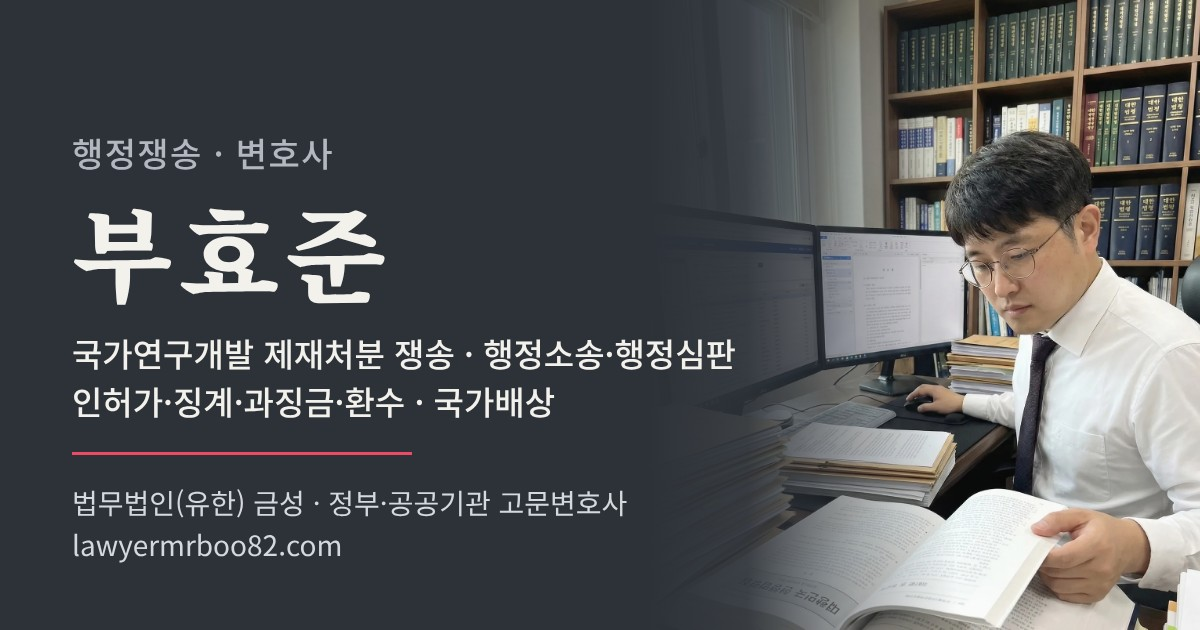
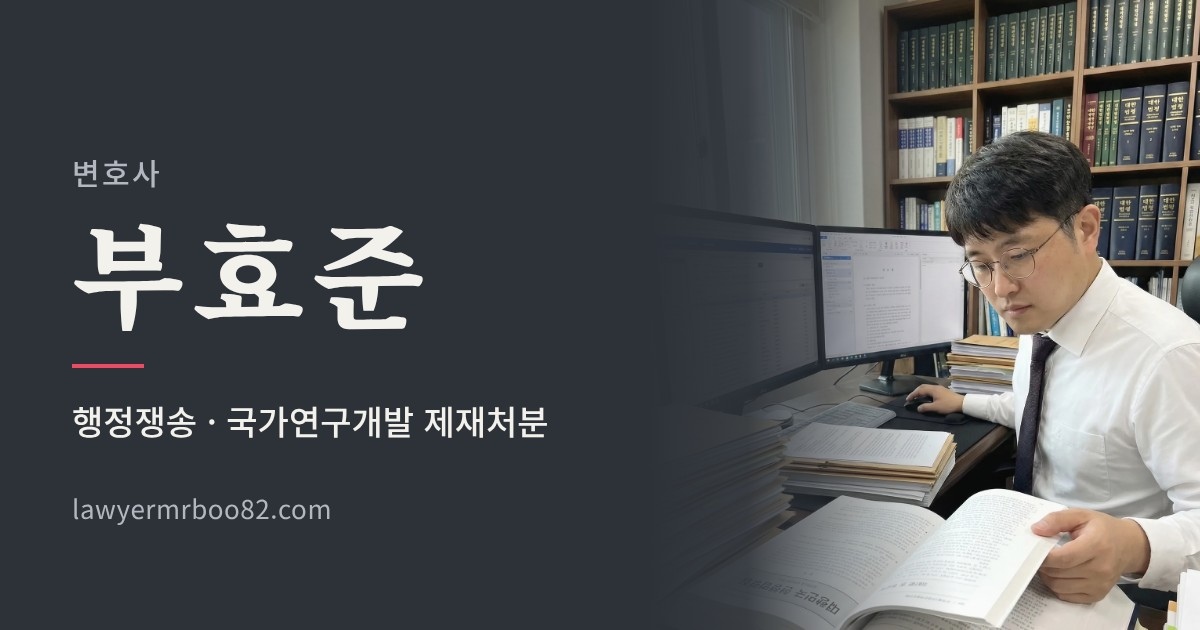
링크 공유 이미지를 간소화(A형): 변호사 · 부효준 · 분야 한 줄 · 주소만
- work/og_image.html: 분야 두 줄·소속·고문 문구를 빼고 '변호사 / 부효준 / 짧은 크림슨 줄 / 행정쟁송 · 국가연구개발 제재처분 / lawyermrboo82.com'으로(첫 화면 이름 줄과 같은 구성); 사진 판은 그대로
- og-image.jpg 재생성(1200×630, 101KB), 이미지 주소 ?v=3 → ?v=4

Claude-Session: https://claude.ai/code/session_01THUocaPHvPWUxxY9KQRVQu

Changed region(s): [[0.0617, 0.3317, 0.6167, 0.7238], [0.0617, 0.7841, 0.5242, 0.9048], [0.0617, 0.2111, 0.2775, 0.3016]]

diff --git a/work/og_image.html b/work/og_image.html
@@ -3,22 +3,22 @@
 <head>
 <meta charset="utf-8">
 <!-- 링크 공유용 이미지(og-image.jpg, 1200×630)의 본. work/og_image.py가 이 파일을 크로미움으로 찍어 저장한다.
-     바탕은 첫 화면과 같은 연한 먹색(--hero-bg #2d3239), 글자는 첫 화면의 밝은 색, 밑줄은 어두운 바탕용 크림슨(#ec4b63).
-     2026. 10. 21. 13시 45분: 오른쪽 누끼 인물 사진(photo-hero.webp) 대신 첫 화면과 같은 사무실 사진(photo-desk-tall.webp — 서가·모니터·판례집을 읽는 모습)을
-     오른쪽 46%에 위아래로 꽉 차게 깔고 왼쪽 가장자리를 바탕색으로 녹인다(첫 화면 두 단 배치의 오른쪽 판과 같은 방식). 글꼴은 Google Fonts가 막힌 환경에서는
-     설치된 Noto Serif/Sans CJK KR로 찍힌다(같은 글꼴). -->
+     바탕은 첫 화면과 같은 연한 먹색(--hero-bg #2d3239), 글자는 첫 화면의 밝은 색, 짧은 줄은 어두운 바탕용 크림슨(#ec4b63).
+     2026. 10. 21.: 오른쪽 누끼 인물 사진 대신 첫 화면과 같은 사무실 사진(photo-desk-tall.webp)을 오른쪽 46%에 깔고 왼쪽을 바탕색으로 녹임.
+     2026. 10. 23.: '이미지인 만큼 정보를 덜어 내자'는 본인 뜻에 따라 A형으로 간소화 — 변호사 / 부효준 / 짧은 크림슨 줄 / 분야 한 줄 / 주소만
+     (분야 두 줄·소속·고문 문구는 뺌). 구성은 홈페이지 첫 화면의 이름 줄(짧은 크림슨 줄 + 변호사 + 이름)과 같다.
+     글꼴은 Google Fonts가 막힌 환경에서는 설치된 Noto Serif/Sans CJK KR로 찍힌다(같은 글꼴). -->
 <link rel="stylesheet" href="https://fonts.googleapis.com/css2?family=Noto+Serif+KR:wght@700;900&family=Noto+Sans+KR:wght@400;500;700&display=swap">
 <style>
   html, body { margin: 0; }
   body { width: 1200px; height: 630px; overflow: hidden; background: #2d3239; color: #f3f1ec; font-family: "Noto Sans KR", "Noto Sans CJK KR", "Malgun Gothic", sans-serif; -webkit-font-smoothing: antialiased; word-break: keep-all; }
   .card { position: relative; width: 1200px; height: 630px; }
-  .copy { position: absolute; left: 72px; top: 128px; width: 760px; z-index: 1; }   /* 오른쪽 사진 판 위에 */
-  .eyebrow { margin: 0; font-size: 34px; font-weight: 500; letter-spacing: 0.04em; color: #b3b8c0; }
-  .name { margin: 18px 0 0; font-family: "Noto Serif KR", "Noto Serif CJK KR", "Batang", serif; font-size: 104px; font-weight: 900; line-height: 1.05; letter-spacing: 0.06em; color: #f3f1ec; } /* 2026. 10. 21.: 홈페이지 이름(노토 명조 900, 자간)과 맞춤 */
-  .fields { margin: 26px 0 0; font-size: 33px; font-weight: 500; line-height: 1.45; color: #f3f1ec; }
-  .rule { width: 340px; height: 3px; margin: 26px 0 0; background: #ec4b63; }
-  .firm { margin: 26px 0 0; font-size: 28px; font-weight: 400; line-height: 1.5; color: #d5d8dc; }
-  .domain { margin: 0; font-size: 28px; font-weight: 400; line-height: 1.5; color: #d5d8dc; }
+  .copy { position: absolute; left: 72px; top: 150px; width: 760px; z-index: 1; }   /* 오른쪽 사진 판 위에 */
+  .role { margin: 0; font-size: 30px; font-weight: 500; letter-spacing: 0.08em; color: #b3b8c0; }
+  .name { margin: 14px 0 0; font-family: "Noto Serif KR", "Noto Serif CJK KR", "Batang", serif; font-size: 116px; font-weight: 900; line-height: 1.05; letter-spacing: 0.07em; color: #f3f1ec; } /* 홈페이지 이름(노토 명조 900, 자간)과 맞춤 */
+  .rule { width: 72px; height: 4px; margin: 34px 0 0; background: #ec4b63; }
+  .field { margin: 28px 0 0; font-size: 34px; font-weight: 500; line-height: 1.45; color: #f3f1ec; }
+  .domain { margin: 44px 0 0; font-size: 26px; font-weight: 400; letter-spacing: 0.02em; color: #b3b8c0; }
   .photo {
     position: absolute; right: 0; top: 0; bottom: 0; width: 46%;
     background-image:
@@ -31,11 +31,10 @@
 <body>
 <div class="card">
   <div class="copy">
-    <p class="eyebrow">행정쟁송 · 변호사</p>
+    <p class="role">변호사</p>
     <p class="name">부효준</p>
-    <p class="fields">국가연구개발 제재처분 쟁송 · 행정소송·행정심판<br>인허가·징계·과징금·환수 · 국가배상</p>
     <div class="rule"></div>
-    <p class="firm">법무법인(유한) 금성 · 정부·공공기관 고문변호사</p>
+    <p class="field">행정쟁송 · 국가연구개발 제재처분</p>
     <p class="domain">lawyermrboo82.com</p>
   </div>
   <div class="photo"></div>

diff --git a/index.html b/index.html
@@ -32,8 +32,8 @@
 <link rel="apple-touch-icon" href="/apple-touch-icon.png">
 <link rel="manifest" href="/site.webmanifest">
 <meta property="og:url" content="https://lawyermrboo82.com/">
-<meta property="og:image" content="https://lawyermrboo82.com/og-image.jpg?v=3">
-<meta property="og:image:secure_url" content="https://lawyermrboo82.com/og-image.jpg?v=3">
+<meta property="og:image" content="https://lawyermrboo82.com/og-image.jpg?v=4">
+<meta property="og:image:secure_url" content="https://lawyermrboo82.com/og-image.jpg?v=4">
 <meta property="og:image:type" content="image/jpeg">
 <meta property="og:image:alt" content="변호사 부효준 — 행정쟁송 · 국가연구개발 제재처분">
 <meta property="og:image:width" content="1200">
@@ -41,7 +41,7 @@
 <meta name="twitter:card" content="summary_large_image">
 <meta name="twitter:title" content="변호사 부효준 — 국가연구개발사업 참여제한·연구비 환수·제재부가금 · 행정쟁송">
 <meta name="twitter:description" content="처분의 과정과 변곡점을 제대로 아는 변호사입니다. 국가로펌 출신 · 소송·자문 약 3,300건.">
-<meta name="twitter:image" content="https://lawyermrboo82.com/og-image.jpg?v=3">
+<meta name="twitter:image" content="https://lawyermrboo82.com/og-image.jpg?v=4">
 <meta property="og:title" content="변호사 부효준 — 국가연구개발사업 참여제한·연구비 환수·제재부가금 · 행정쟁송">
 <meta property="og:description" content="제재처분을 심의하는 위원회의 위원이자 정부·공공기관 약 20곳의 고문변호사. 행정쟁송 한 분야에 쌓은 전문성으로 처분을 받은 연구자·기업·공무원을 대리하고, 출연금·보조금 관련 형사사건도 함께 변호합니다. 주요 수행 사례와 판결문 공개.">
 <script type="application/ld+json">
@@ -56,7 +56,7 @@
  ],
  "jobTitle": "변호사",
  "url": "https://lawyermrboo82.com/",
- "image": "https://lawyermrboo82.com/og-image.jpg?v=3",
+ "image": "https://lawyermrboo82.com/og-image.jpg?v=4",
  "worksFor": {
   "@type": "LegalService",
   "name": "법무법인(유한) 금성",

diff --git a/topics/rnd-stay-of-execution.html b/topics/rnd-stay-of-execution.html
@@ -18,11 +18,11 @@
 <meta property="og:url" content="https://lawyermrboo82.com/topics/rnd-stay-of-execution.html">
 <meta property="og:title" content="참여제한·제재부가금·환수처분 집행정지 사례 — 변호사 부효준">
 <meta property="og:description" content="본안 판결까지 처분의 효력을 멈추는 집행정지·효력정지 사례입니다. 취소소송을 제기해도 처분의 효력은 그대로 유지되므로, 법원이 집행정지를 받아들여야 판결 때까지 효력이 멈춥니다(「행정소송법」 제23조). 참여제한처럼 기간이 지나면 돌이킬 수 없는 처분, 진행 중인 과제가 중단되는 상황에…">
-<meta property="og:image" content="https://lawyermrboo82.com/og-image.jpg?v=3">
+<meta property="og:image" content="https://lawyermrboo82.com/og-image.jpg?v=4">
 <meta name="twitter:card" content="summary_large_image">
 <meta name="twitter:title" content="참여제한·제재부가금·환수처분 집행정지 사례 — 변호사 부효준">
 <meta name="twitter:description" content="본안 판결까지 처분의 효력을 멈추는 집행정지·효력정지 사례입니다. 취소소송을 제기해도 처분의 효력은 그대로 유지되므로, 법원이 집행정지를 받아들여야 판결 때까지 효력이 멈춥니다(「행정소송법」 제23조). 참여제한처럼 기간이 지나면 돌이킬 수 없는 처분, 진행 중인 과제가 중단되는 상황에…">
-<meta name="twitter:image" content="https://lawyermrboo82.com/og-image.jpg?v=3">
+<meta name="twitter:image" content="https://lawyermrboo82.com/og-image.jpg?v=4">
 <script async src="https://www.googletagmanager.com/gtag/js?id=G-STLB5BC2G2"></script>
 <script>
   window.dataLayer = window.dataLayer || [];

diff --git a/topics/rnd-penalty-surcharge.html b/topics/rnd-penalty-surcharge.html
@@ -18,11 +18,11 @@
 <meta property="og:url" content="https://lawyermrboo82.com/topics/rnd-penalty-surcharge.html">
 <meta property="og:title" content="제재부가금 부과처분 취소소송·집행정지 사례 — 변호사 부효준">
 <meta property="og:description" content="국가연구개발혁신법·보조금법·공공재정환수법에 따른 제재부가금 부과처분을 다툰 사례입니다. 「국가연구개발혁신법」 제32조 제1항은 이미 지급한 정부 연구개발비의 5배 범위에서 제재부가금을 부과할 수 있게 하고, 참여제한과 병과할 수 있습니다(같은 조 제2항). 「보조금 관리에 관한 법률」…">
-<meta property="og:image" content="https://lawyermrboo82.com/og-image.jpg?v=3">
+<meta property="og:image" content="https://lawyermrboo82.com/og-image.jpg?v=4">
 <meta name="twitter:card" content="summary_large_image">
 <meta name="twitter:title" content="제재부가금 부과처분 취소소송·집행정지 사례 — 변호사 부효준">
 <meta name="twitter:description" content="국가연구개발혁신법·보조금법·공공재정환수법에 따른 제재부가금 부과처분을 다툰 사례입니다. 「국가연구개발혁신법」 제32조 제1항은 이미 지급한 정부 연구개발비의 5배 범위에서 제재부가금을 부과할 수 있게 하고, 참여제한과 병과할 수 있습니다(같은 조 제2항). 「보조금 관리에 관한 법률」…">
-<meta name="twitter:image" content="https://lawyermrboo82.com/og-image.jpg?v=3">
+<meta name="twitter:image" content="https://lawyermrboo82.com/og-image.jpg?v=4">
 <script async src="https://www.googletagmanager.com/gtag/js?id=G-STLB5BC2G2"></script>
 <script>
   window.dataLayer = window.dataLayer || [];

diff --git a/topics/rnd-participation-restriction.html b/topics/rnd-participation-restriction.html
@@ -18,11 +18,11 @@
 <meta property="og:url" content="https://lawyermrboo82.com/topics/rnd-participation-restriction.html">
 <meta property="og:title" content="국가연구개발사업 참여제한처분 취소소송 사례 — 변호사 부효준">
 <meta property="og:description" content="국가연구개발사업 참여제한처분을 다툰 취소소송·무효확인소송과 집행정지 사례입니다. 참여제한은 「국가연구개발혁신법」 제32조 제1항에 따라 연구개발기관·연구책임자·연구자 등에게 10년 이내의 범위에서 국가연구개발활동 참여를 제한하는 처분입니다.">
-<meta property="og:image" content="https://lawyermrboo82.com/og-image.jpg?v=3">
+<meta property="og:image" content="https://lawyermrboo82.com/og-image.jpg?v=4">
 <meta name="twitter:card" content="summary_large_image">
 <meta name="twitter:title" content="국가연구개발사업 참여제한처분 취소소송 사례 — 변호사 부효준">
 <meta name="twitter:description" content="국가연구개발사업 참여제한처분을 다툰 취소소송·무효확인소송과 집행정지 사례입니다. 참여제한은 「국가연구개발혁신법」 제32조 제1항에 따라 연구개발기관·연구책임자·연구자 등에게 10년 이내의 범위에서 국가연구개발활동 참여를 제한하는 처분입니다.">
-<meta name="twitter:image" content="https://lawyermrboo82.com/og-image.jpg?v=3">
+<meta name="twitter:image" content="https://lawyermrboo82.com/og-image.jpg?v=4">
 <script async src="https://www.googletagmanager.com/gtag/js?id=G-STLB5BC2G2"></script>
 <script>
   window.dataLayer = window.dataLayer || [];

diff --git a/cases.html b/cases.html
@@ -28,15 +28,15 @@
 <meta property="og:url" content="https://lawyermrboo82.com/cases.html">
 <meta property="og:title" content="주요 수행 사례 271건 — 행정소송 · 국가연구개발 제재처분 판결문 · 변호사 부효준">
 <meta property="og:description" content="행정소송·행정심판·국가배상·손실보상·민사·형사 사건의 주요 수행 사례와 판결문.">
-<meta property="og:image" content="https://lawyermrboo82.com/og-image.jpg?v=3">
+<meta property="og:image" content="https://lawyermrboo82.com/og-image.jpg?v=4">
 <meta property="og:image:width" content="1200">
 <meta property="og:image:height" content="630">
-<meta property="og:image:secure_url" content="https://lawyermrboo82.com/og-image.jpg?v=3">
+<meta property="og:image:secure_url" content="https://lawyermrboo82.com/og-image.jpg?v=4">
 <meta property="og:image:type" content="image/jpeg">
 <meta property="og:image:alt" content="변호사 부효준 — 행정쟁송 · 국가연구개발 제재처분">
 <meta name="twitter:card" content="summary_large_image">
 <meta name="twitter:title" content="주요 수행 사례 271건 — 행정소송 · 국가연구개발 제재처분 판결문 · 변호사 부효준">
-<meta name="twitter:image" content="https://lawyermrboo82.com/og-image.jpg?v=3">
+<meta name="twitter:image" content="https://lawyermrboo82.com/og-image.jpg?v=4">
 <link rel="preconnect" href="https://fonts.googleapis.com">
 <link rel="preconnect" href="https://fonts.gstatic.com" crossorigin>
 <link rel="stylesheet" href="https://fonts.googleapis.com/css2?family=Noto+Serif+KR:wght@500;600;700;900&family=Noto+Sans+KR:wght@400;500;700&display=swap">

diff --git a/topics/rnd-recovery.html b/topics/rnd-recovery.html
@@ -18,11 +18,11 @@
 <meta property="og:url" content="https://lawyermrboo82.com/topics/rnd-recovery.html">
 <meta property="og:title" content="연구비(연구개발비)·정부출연금 환수처분 취소소송 사례 — 변호사 부효준">
 <meta property="og:description" content="연구개발비·정부출연금 환수처분과 환수금·회수금 채무를 다툰 사례입니다. 「국가연구개발혁신법」 제32조 제3항의 연구개발비 환수는 제재사유와 관련된 정부 연구개발비를 돌려받는 처분이고, 같은 법 제13조 제7항의 정산 회수금은 성격이 다릅니다.">
-<meta property="og:image" content="https://lawyermrboo82.com/og-image.jpg?v=3">
+<meta property="og:image" content="https://lawyermrboo82.com/og-image.jpg?v=4">
 <meta name="twitter:card" content="summary_large_image">
 <meta name="twitter:title" content="연구비(연구개발비)·정부출연금 환수처분 취소소송 사례 — 변호사 부효준">
 <meta name="twitter:description" content="연구개발비·정부출연금 환수처분과 환수금·회수금 채무를 다툰 사례입니다. 「국가연구개발혁신법」 제32조 제3항의 연구개발비 환수는 제재사유와 관련된 정부 연구개발비를 돌려받는 처분이고, 같은 법 제13조 제7항의 정산 회수금은 성격이 다릅니다.">
-<meta name="twitter:image" content="https://lawyermrboo82.com/og-image.jpg?v=3">
+<meta name="twitter:image" content="https://lawyermrboo82.com/og-image.jpg?v=4">
 <script async src="https://www.googletagmanager.com/gtag/js?id=G-STLB5BC2G2"></script>
 <script>
   window.dataLayer = window.dataLayer || [];

diff --git a/topics/rnd-party-litigation.html b/topics/rnd-party-litigation.html
@@ -18,11 +18,11 @@
 <meta property="og:url" content="https://lawyermrboo82.com/topics/rnd-party-litigation.html">
 <meta property="og:title" content="연구개발비 회수금·정산금 반환채무 당사자소송 사례 — 변호사 부효준">
 <meta property="og:description" content="정산 회수금·사업비 반환채무의 존부를 다툰 공법상 당사자소송과 관련 사례입니다. 국가연구개발사업 협약은 공법상 계약이어서, 전문기관의 정산 회수 통보에 따른 반환의무의 존부와 범위는 민사소송이 아니라 공법상 당사자소송으로 다툽니다.">
-<meta property="og:image" content="https://lawyermrboo82.com/og-image.jpg?v=3">
+<meta property="og:image" content="https://lawyermrboo82.com/og-image.jpg?v=4">
 <meta name="twitter:card" content="summary_large_image">
 <meta name="twitter:title" content="연구개발비 회수금·정산금 반환채무 당사자소송 사례 — 변호사 부효준">
 <meta name="twitter:description" content="정산 회수금·사업비 반환채무의 존부를 다툰 공법상 당사자소송과 관련 사례입니다. 국가연구개발사업 협약은 공법상 계약이어서, 전문기관의 정산 회수 통보에 따른 반환의무의 존부와 범위는 민사소송이 아니라 공법상 당사자소송으로 다툽니다.">
-<meta name="twitter:image" content="https://lawyermrboo82.com/og-image.jpg?v=3">
+<meta name="twitter:image" content="https://lawyermrboo82.com/og-image.jpg?v=4">
 <script async src="https://www.googletagmanager.com/gtag/js?id=G-STLB5BC2G2"></script>
 <script>
   window.dataLayer = window.dataLayer || [];

diff --git a/work/build_cases.py b/work/build_cases.py
@@ -478,7 +478,7 @@ def render_case_page(c, by_cat, cat_counts, details, published, modified):
     ims = images_of(c)
     title = c["title"]
     desc = description_of(c)
-    og_image = "%s/cases/%s" % (SITE, ims[0]["src"].rsplit("/", 1)[-1]) if ims else SITE + "/og-image.jpg?v=3"
+    og_image = "%s/cases/%s" % (SITE, ims[0]["src"].rsplit("/", 1)[-1]) if ims else SITE + "/og-image.jpg?v=4"
     parts = [p for p in [c.get("court"), c.get("party")] if p]
 
     ld = {
@@ -490,7 +490,7 @@ def render_case_page(c, by_cat, cat_counts, details, published, modified):
                 "mainEntityOfPage": url,
                 "headline": title,
                 "description": desc,
-                "image": ["%s/cases/%s" % (SITE, im["src"].rsplit("/", 1)[-1]) for im in ims] or [SITE + "/og-image.jpg?v=3"],
+                "image": ["%s/cases/%s" % (SITE, im["src"].rsplit("/", 1)[-1]) for im in ims] or [SITE + "/og-image.jpg?v=4"],
                 "articleSection": cat,
                 "keywords": ", ".join(d.get("keywords") or []) if d.get("keywords") else None,
                 "articleBody": " ".join([c.get("summary") or ""] + list(d.get("overview") or []) + list(d.get("claims") or []) + list(d.get("argument") or []) + list(d.get("holding") or []) + list(d.get("meaning") or [])).strip() or None,
@@ -722,11 +722,11 @@ def build_topic_page(t, matched, cat_counts):
 <meta property="og:url" content="{esc(url)}">
 <meta property="og:title" content="{esc(t["title"])}">
 <meta property="og:description" content="{esc(desc)}">
-<meta property="og:image" content="{SITE}/og-image.jpg?v=3">
+<meta property="og:image" content="{SITE}/og-image.jpg?v=4">
 <meta name="twitter:card" content="summary_large_image">
 <meta name="twitter:title" content="{esc(t["title"])}">
 <meta name="twitter:description" content="{esc(desc)}">
-<meta name="twitter:image" content="{SITE}/og-image.jpg?v=3">
+<meta name="twitter:image" content="{SITE}/og-image.jpg?v=4">
 {ga_snippet()}<link rel="preconnect" href="https://fonts.googleapis.com">
 <link rel="preconnect" href="https://fonts.gstatic.com" crossorigin>
 <link rel="stylesheet" href="https://fonts.googleapis.com/css2?family=Noto+Serif+KR:wght@500;600;700;900&family=Noto+Sans+KR:wght@400;500;700&display=swap">
